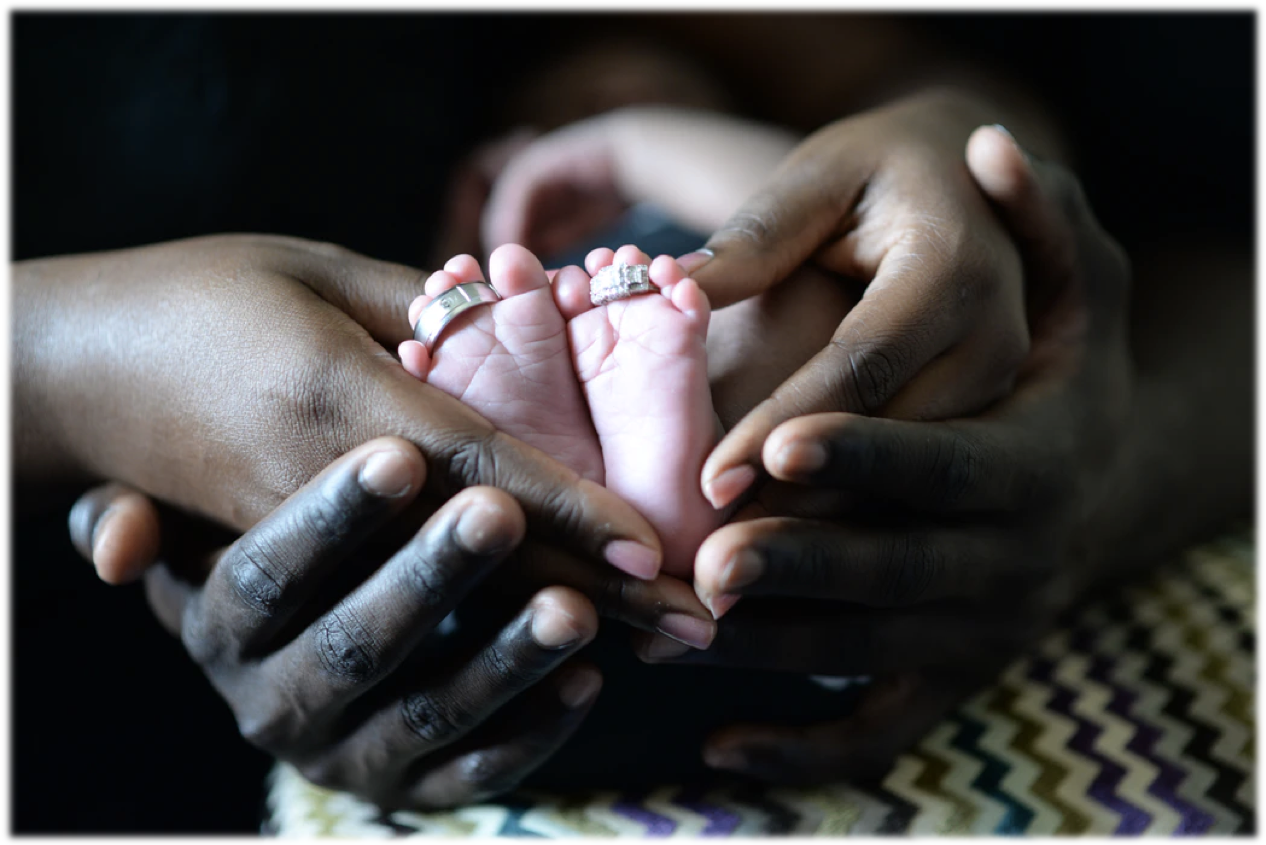
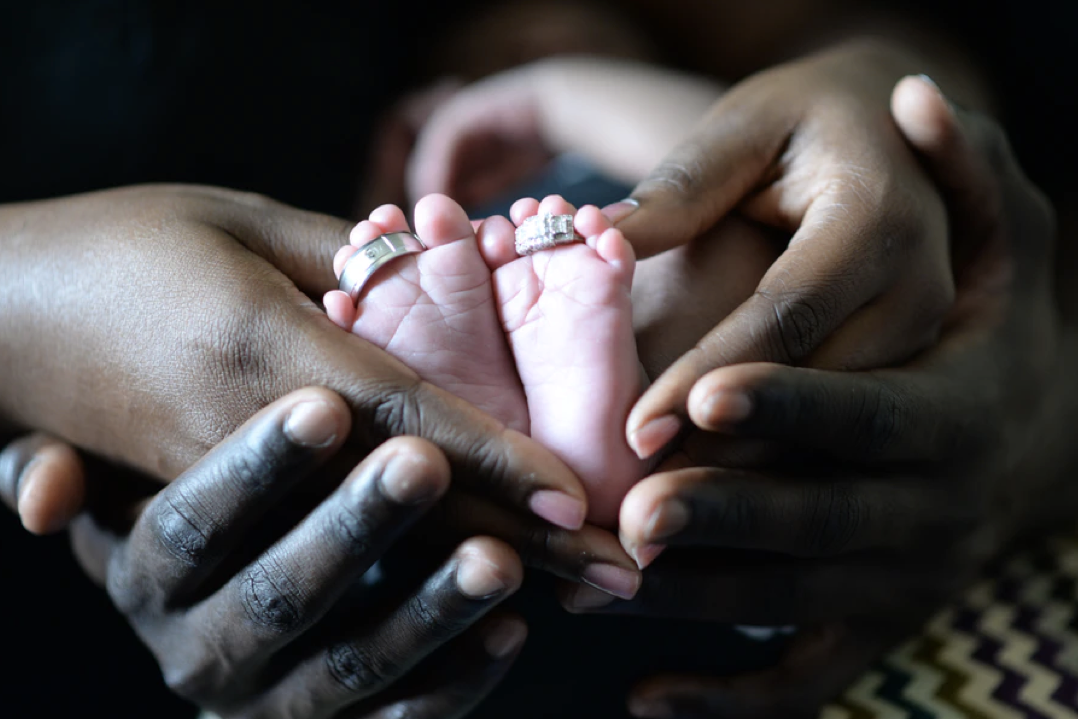
Fixed the picture size

diff --git a/css/header.css b/css/header.css
@@ -10,7 +10,6 @@ nav {
 }
 
 
-
 /*The image in NavBar*/
 /*Use the # to target an ID of an html element*/
 #pic1 {
@@ -61,20 +60,21 @@ a button footer {
     font-family: gotham;
 }
 
-
-
 a[type="button"] {
     background: rgb(135,33,117);
     color: white;
+    font-family: gotham;
 }
 
 button[type="submit"] {
     background: rgb(135,33,117);
     color: white;
+    font-family: gotham;
 }
 
 .btn-outline {
     color: rgb(135,33,117);
+    font-family: gotham;
 }
 
 
